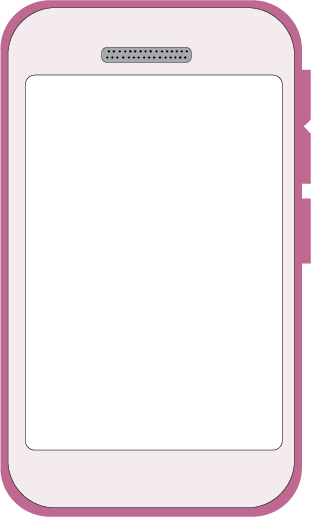
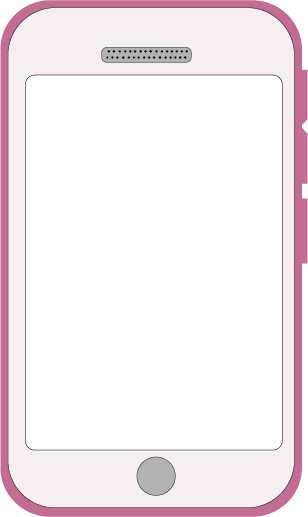
Tel UI Ok + Fix UI Choices +fix bug save

diff --git a/Assets/Scripts/ChapterManager.cs b/Assets/Scripts/ChapterManager.cs
@@ -175,12 +175,12 @@ namespace VN.Runtime
         private void HandlePhoneConversationFinished(DialogueChapter next)
         {
             _inPhoneChapter = false;
+            _currentPhoneChapter = null; // <-- AJOUTER cette ligne
             _pendingChapterAfterPhone = next;
 
-            // LoadChapter est différé — PhoneChapterUIController l'appellera
-            // via OnPhoneExitAnimationComplete() après le slide de sortie.
             OnPhoneChapterEnded?.Invoke();
         }
+
 
         private void HandleNextPhoneChapter(PhoneChapter next)
         {

diff --git a/Assets/Scripts/DialogueBoxController.cs b/Assets/Scripts/DialogueBoxController.cs
@@ -69,7 +69,9 @@ namespace VN.UI
         private void OnChoiceReady(List<DialogueChoice> _)
         {
             dialogueBox.SetActive(true);
+            dialogueText.text = string.Empty;
         }
+
 
         private void UpdateProtagonistEmotion(EmotionType emotion)
         {

diff --git a/Assets/Scripts/Save/GameSaveController.cs b/Assets/Scripts/Save/GameSaveController.cs
@@ -70,6 +70,7 @@ namespace VN.Runtime
             SaveGame();
         }
 
+
         /// <summary>Applies customization choices from the asset to the runtime copy before starting a new game.</summary>
         public void ApplyCustomization()
         {
